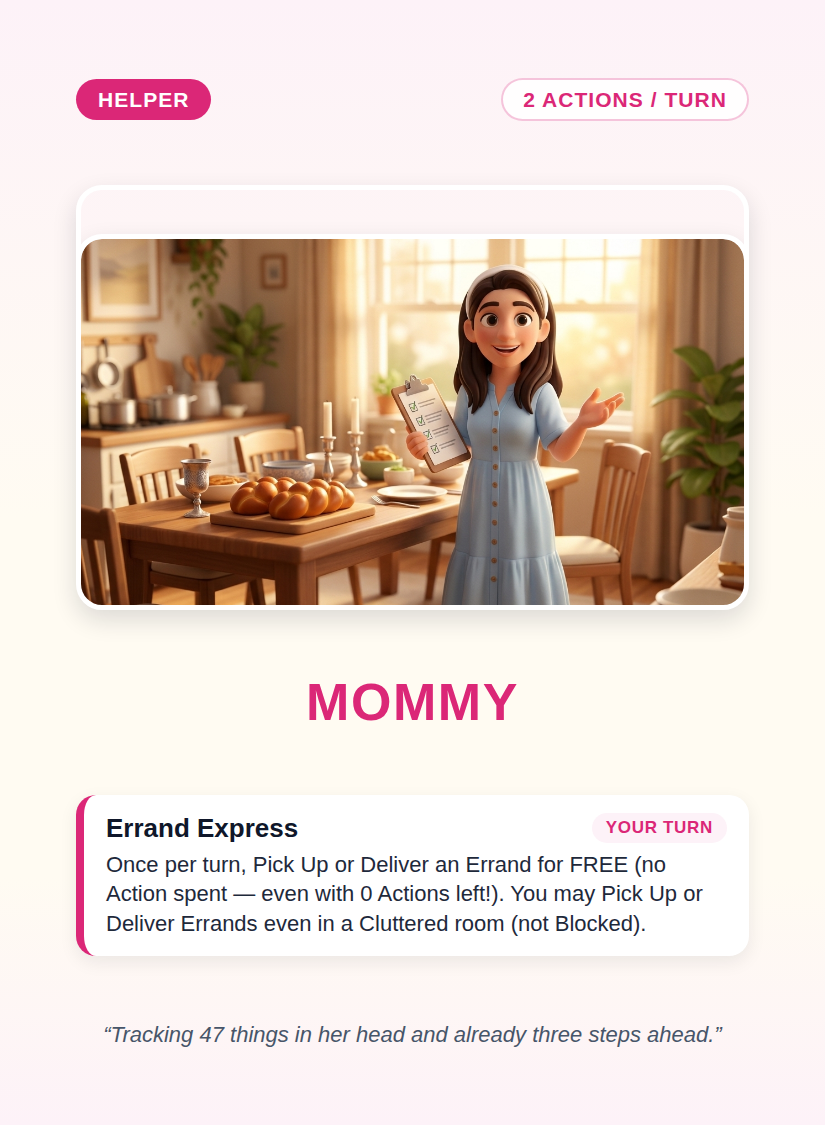
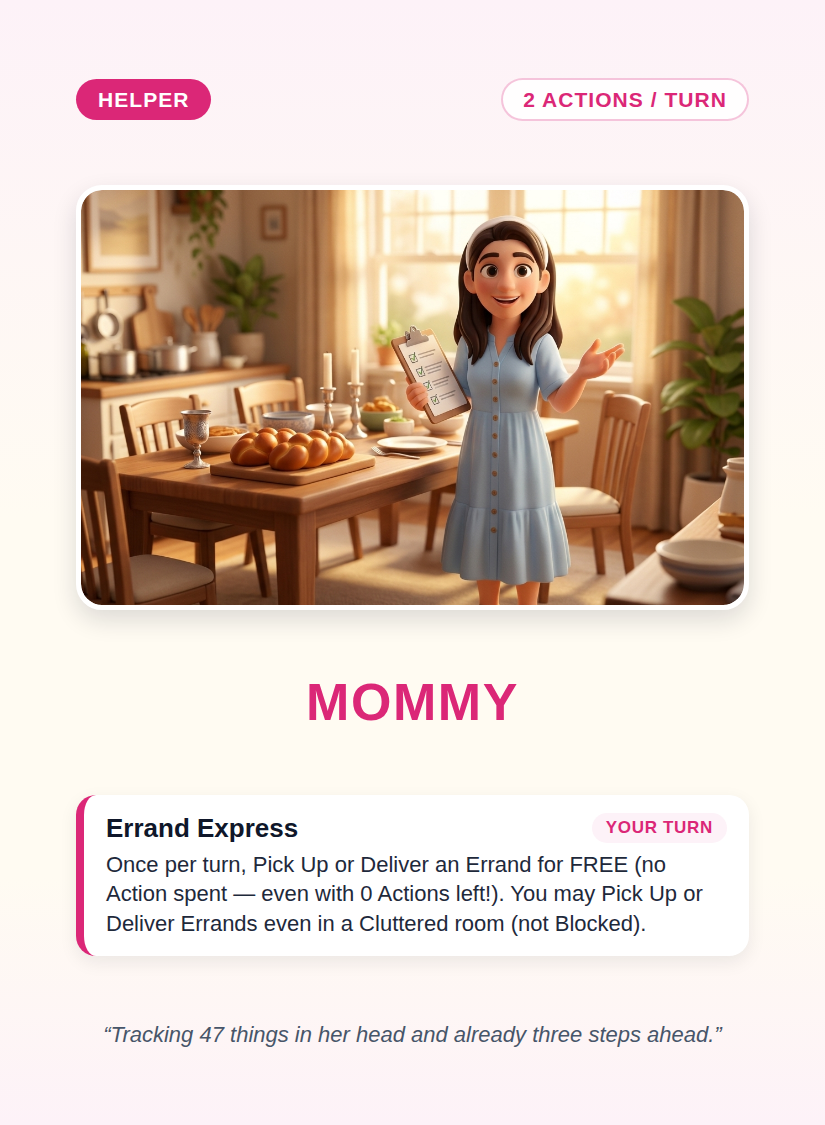
Fix Mommy & Nael card art-frame crop, shield-aware Turn 4 prompt & verbatim power parity

Changed region(s): [[0.0909, 0.1556, 0.9091, 0.56]]

diff --git a/src/components/BoardGrid.tsx b/src/components/BoardGrid.tsx
@@ -44,7 +44,9 @@ function getBoardPrompt(state: GameState): string {
   }
   if (state.phase === 'EVENT_RESOLVED') {
     return state.turnInRound === 4
-      ? `Review the Event, then end Round ${state.round} & flip the Clock`
+      ? state.clockShields.length > 0
+        ? `Review the Event, then end Round ${state.round} (Cousin Aviel shields the Clock!)`
+        : `Review the Event, then end Round ${state.round} & flip the Clock`
       : `Review the Event, then pass the turn after ${activeName}`;
   }
   if (state.phase === 'WON') return 'Shabbat Shalom — all Chores complete!';

diff --git a/src/engine/setup.ts b/src/engine/setup.ts
@@ -32,7 +32,7 @@ export interface SetupOptions {
  * - Fixed Starting Clutter: Center (Beginner) or Top-Center & Bottom-Center (Standard/Hard)
  * - 4 Helpers in Clear corners (Abba TL, Nael TR, Mekimi BL, Mommy BR)
  * - Single-shuffle Chore deal: 10 (Beg) / 13 (Std) / 15 (Hard) -> 4 face-up Chore Row + rest Chore Deck
- * - Shabbat Clock: 6+1 (Beg) / 5+1 (Std) / 4+1 (Hard)
+ * - Shabbat Clock: 6+1 (Beg) / 5+1 (Std) / 5+1 (Hard)
  * - Tools: 2 face-up Family Toolbox (no cap) + 4 shuffled into Event Deck + 4 boxed
  * - Slow-Downs: all 18 (Beginner boxes Time Flies -> 17)
  */

diff --git a/src/data/cards.ts b/src/data/cards.ts
@@ -141,7 +141,7 @@ export const HELPER_DEFS: Record<HelperId, HelperDef> = {
       {
         name: 'Errand Express',
         timing: 'Your Turn',
-        text: 'Once per turn, Pick Up or Deliver an Errand for FREE (0 Actions — even with 0 Actions left!). You may Pick Up or Deliver Errands even in a Cluttered room (not Blocked).',
+        text: 'Once per turn, Pick Up or Deliver an Errand for FREE (no Action spent — even with 0 Actions left!). You may Pick Up or Deliver Errands even in a Cluttered room (not Blocked).',
       },
     ],
   },
